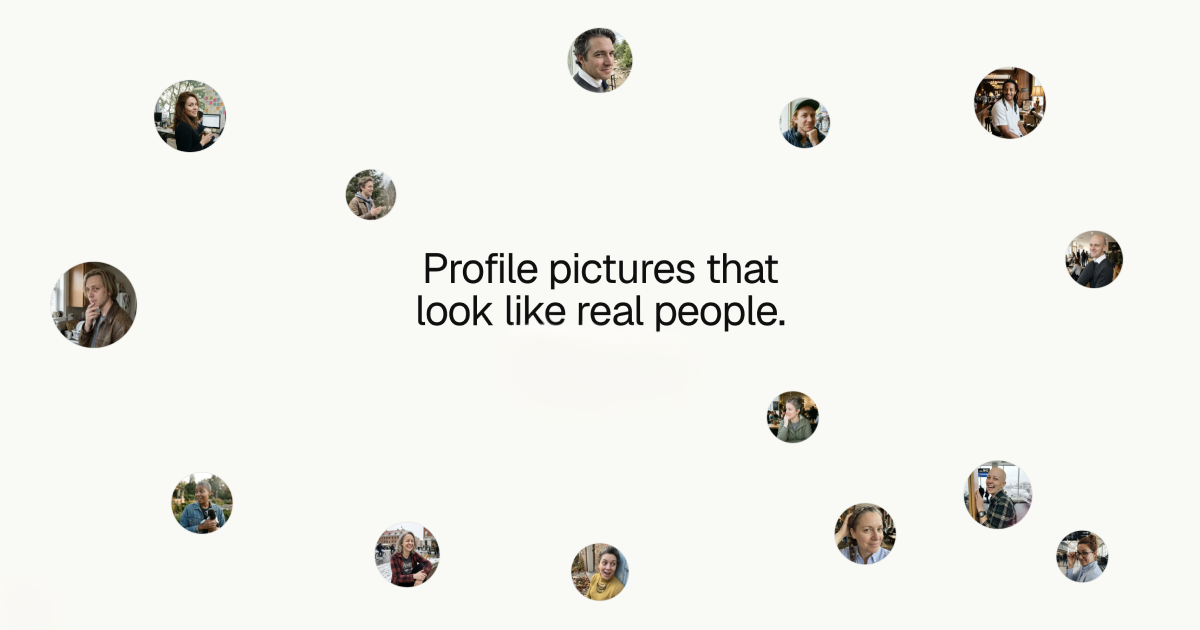
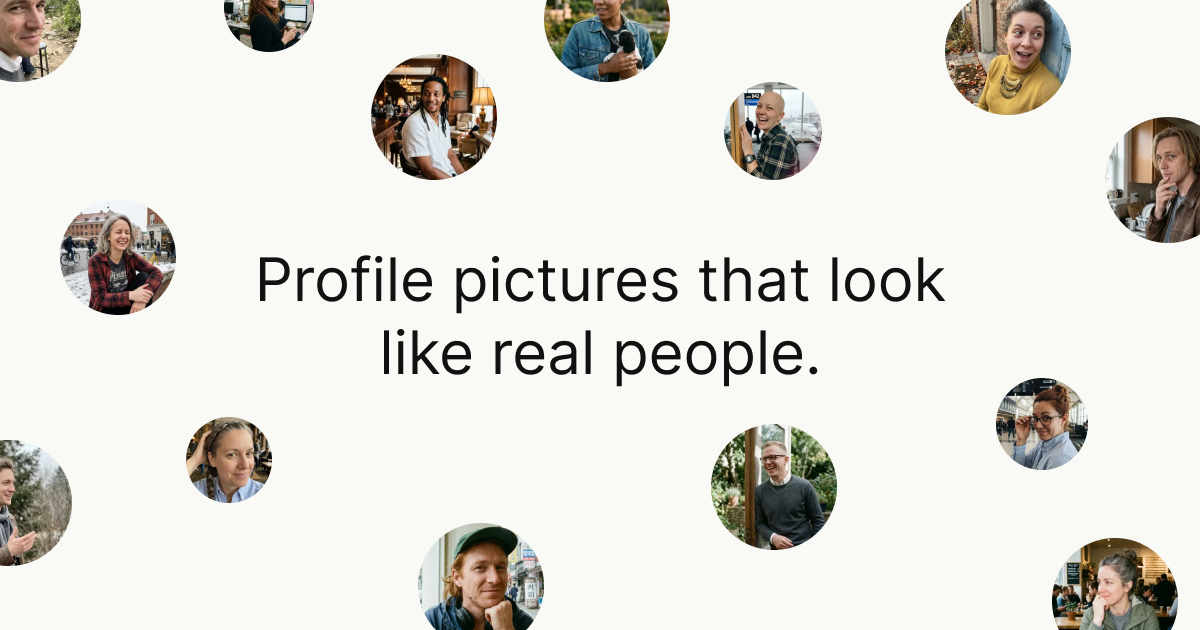
chore: open-source prep — MIT license, README, repo source link, OG image
- Add MIT LICENSE (© James Frewin) so it's genuinely open source.
- Rewrite README: tighter, scannable, with a hero image and clear run steps.
- Add a GitHub icon in the footer linking straight to the repo.
- Update og-image.png to the latest social card.

diff --git a/app/page.tsx b/app/page.tsx
@@ -3063,8 +3063,8 @@ function Home() {
         </div>
       </div>
 
-      {/* Footer — credit */}
-      <footer className="mt-12 border-t border-stone pt-6 pb-2 sm:mt-16 sm:pt-8">
+      {/* Footer — credit + source link */}
+      <footer className="mt-12 flex items-center justify-between gap-4 border-t border-stone pt-6 pb-2 sm:mt-16 sm:pt-8">
         <p className="meta-label">
           Made by{" "}
           <img
@@ -3095,6 +3095,26 @@ function Home() {
             <span className="sr-only"> (opens in new tab)</span>
           </a>
         </p>
+        {/* Direct link to the open-source repo */}
+        <a
+          href="https://github.com/heyimjames/RealPFP"
+          target="_blank"
+          rel="noopener noreferrer"
+          aria-label="View source on GitHub"
+          title="View source on GitHub"
+          className="shrink-0 text-muted-foreground transition-colors fine-hover:hover:text-foreground"
+        >
+          <svg
+            viewBox="0 0 24 24"
+            width="20"
+            height="20"
+            fill="currentColor"
+            aria-hidden="true"
+          >
+            <path d="M12 .5C5.37.5 0 5.78 0 12.29c0 5.2 3.44 9.6 8.21 11.16.6.11.82-.25.82-.56 0-.28-.01-1.02-.02-2-3.34.7-4.04-1.6-4.04-1.6-.55-1.36-1.33-1.72-1.33-1.72-1.09-.72.08-.71.08-.71 1.2.08 1.83 1.2 1.83 1.2 1.07 1.78 2.81 1.27 3.5.97.11-.76.42-1.27.76-1.56-2.67-.29-5.47-1.29-5.47-5.75 0-1.27.47-2.31 1.24-3.12-.12-.29-.54-1.46.12-3.05 0 0 1.01-.31 3.3 1.19a11.7 11.7 0 0 1 3-.39c1.02 0 2.05.13 3 .39 2.28-1.5 3.29-1.19 3.29-1.19.66 1.59.24 2.76.12 3.05.77.81 1.24 1.85 1.24 3.12 0 4.47-2.81 5.45-5.49 5.74.43.36.81 1.08.81 2.18 0 1.58-.01 2.85-.01 3.24 0 .31.22.68.83.56A12.02 12.02 0 0 0 24 12.29C24 5.78 18.63.5 12 .5Z" />
+          </svg>
+          <span className="sr-only">View source on GitHub (opens in new tab)</span>
+        </a>
       </footer>
 
       {/* ==================== DRAWERS ==================== */}

diff --git a/README.md b/README.md
@@ -1,36 +1,44 @@
-# RealPFP — Profile Picture Generator
+# RealPFP
 
-Generate realistic, natural-looking AI profile photos — not the glossy, plastic kind. Live at **[realpfp.vercel.app](https://realpfp.vercel.app)**.
+**Realistic AI profile pictures that don't look AI-generated.**
 
-You bring your own [fal.ai](https://fal.ai) API key (stored only in your browser), pick how you want the photos to look, and generate as many as you like.
+Free, open-source, and private — you bring your own [fal.ai](https://fal.ai) key and it never leaves your browser.
+
+Live at **[realpfp.vercel.app](https://realpfp.vercel.app)**
+
+![RealPFP](public/og-image.png)
 
 ## What it does
 
-- **Three looks** — choose the vibe:
-  - **Aspirational** — polished and professional, but still a believable real photo.
-  - **Profile picture** — flattering but natural, like a photo you'd actually post.
-  - **Authentic candid** — gritty, documentary, real-life imperfect.
-- **Control who appears** — dial in the distribution of ethnicity and gender with simple sliders, or leave it to an even random mix.
-- **Control what appears** — sliders for how often glasses, jewellery, hats, formal wear, pets, named locations and more show up.
-- **Coherent scenes** — time of day, weather and lighting always make sense together (no smiling in a thunderstorm).
-- **Variety** — age range, camera type, shot distance, poses, backgrounds, and real-world locations (Lisbon, Tokyo, NYC…).
-- **Batch & export** — generate many at once, save favourites to a library, download single images or a ZIP. You can also write a custom prompt or upload a CSV of prompts.
+Pick a look, dial in who and what appears, and generate as many profile pictures as you like. The prompts are tuned to dodge the usual AI tells — plastic skin, mangled hands, garbled text, every face dead-centre.
 
-## Getting started
+- **Three looks** — *Aspirational* (polished but real), *Profile picture* (natural, postable), *Authentic candid* (documentary, imperfect).
+- **Control the people** — sliders for ethnicity and gender distribution, or an even random mix.
+- **Control the details** — how often glasses, jewellery, hats, pets, named locations and more show up.
+- **Coherent scenes** — time of day, weather and light always agree (no smiling in a thunderstorm).
+- **Batch & export** — generate in bulk, save favourites, download a single image or a ZIP.
 
-You'll need [Node.js](https://nodejs.org) and a free [fal.ai API key](https://fal.ai/dashboard/keys).
+## Run it locally
+
+You'll need [Node.js](https://nodejs.org) and a free [fal.ai key](https://fal.ai/dashboard/keys).
 
 ```bash
+git clone https://github.com/heyimjames/RealPFP.git
+cd RealPFP
 npm install
 npm run dev
 ```
 
-Open **[http://localhost:2929](http://localhost:2929)**, click **Settings** (top right), and paste your fal.ai key. That's it — keys are kept in your browser and never sent to any server but fal.ai's.
+Open **[localhost:2929](http://localhost:2929)**, hit **Settings**, and paste your fal.ai key. It's stored only in your browser and sent nowhere except fal.ai.
 
 ## How it works
 
-Each generation builds a detailed, randomised prompt from your chosen settings — combining traits, scene, lighting, camera and framing into natural-sounding descriptions — then sends it to fal.ai's image model. The prompt logic is deliberately tuned to avoid the usual "AI giveaways" (plastic skin, garbled text, mangled logos, every face dead-centre).
+Every image builds a detailed, randomised prompt from your settings — traits, scene, lighting, camera, framing — written as natural description and sent to fal.ai's `nano-banana-2` model. The prompt logic leans on *positive* description (what real photos actually have: pore texture, one light source, correct anatomy) rather than negation, which is what keeps results from looking synthetic.
 
 ## Tech
 
-Next.js · React · TypeScript · Tailwind CSS · fal.ai image API · deployed on Vercel.
+Next.js · React · TypeScript · Tailwind CSS · fal.ai · Vercel
+
+## License
+
+[MIT](LICENSE) © James Frewin